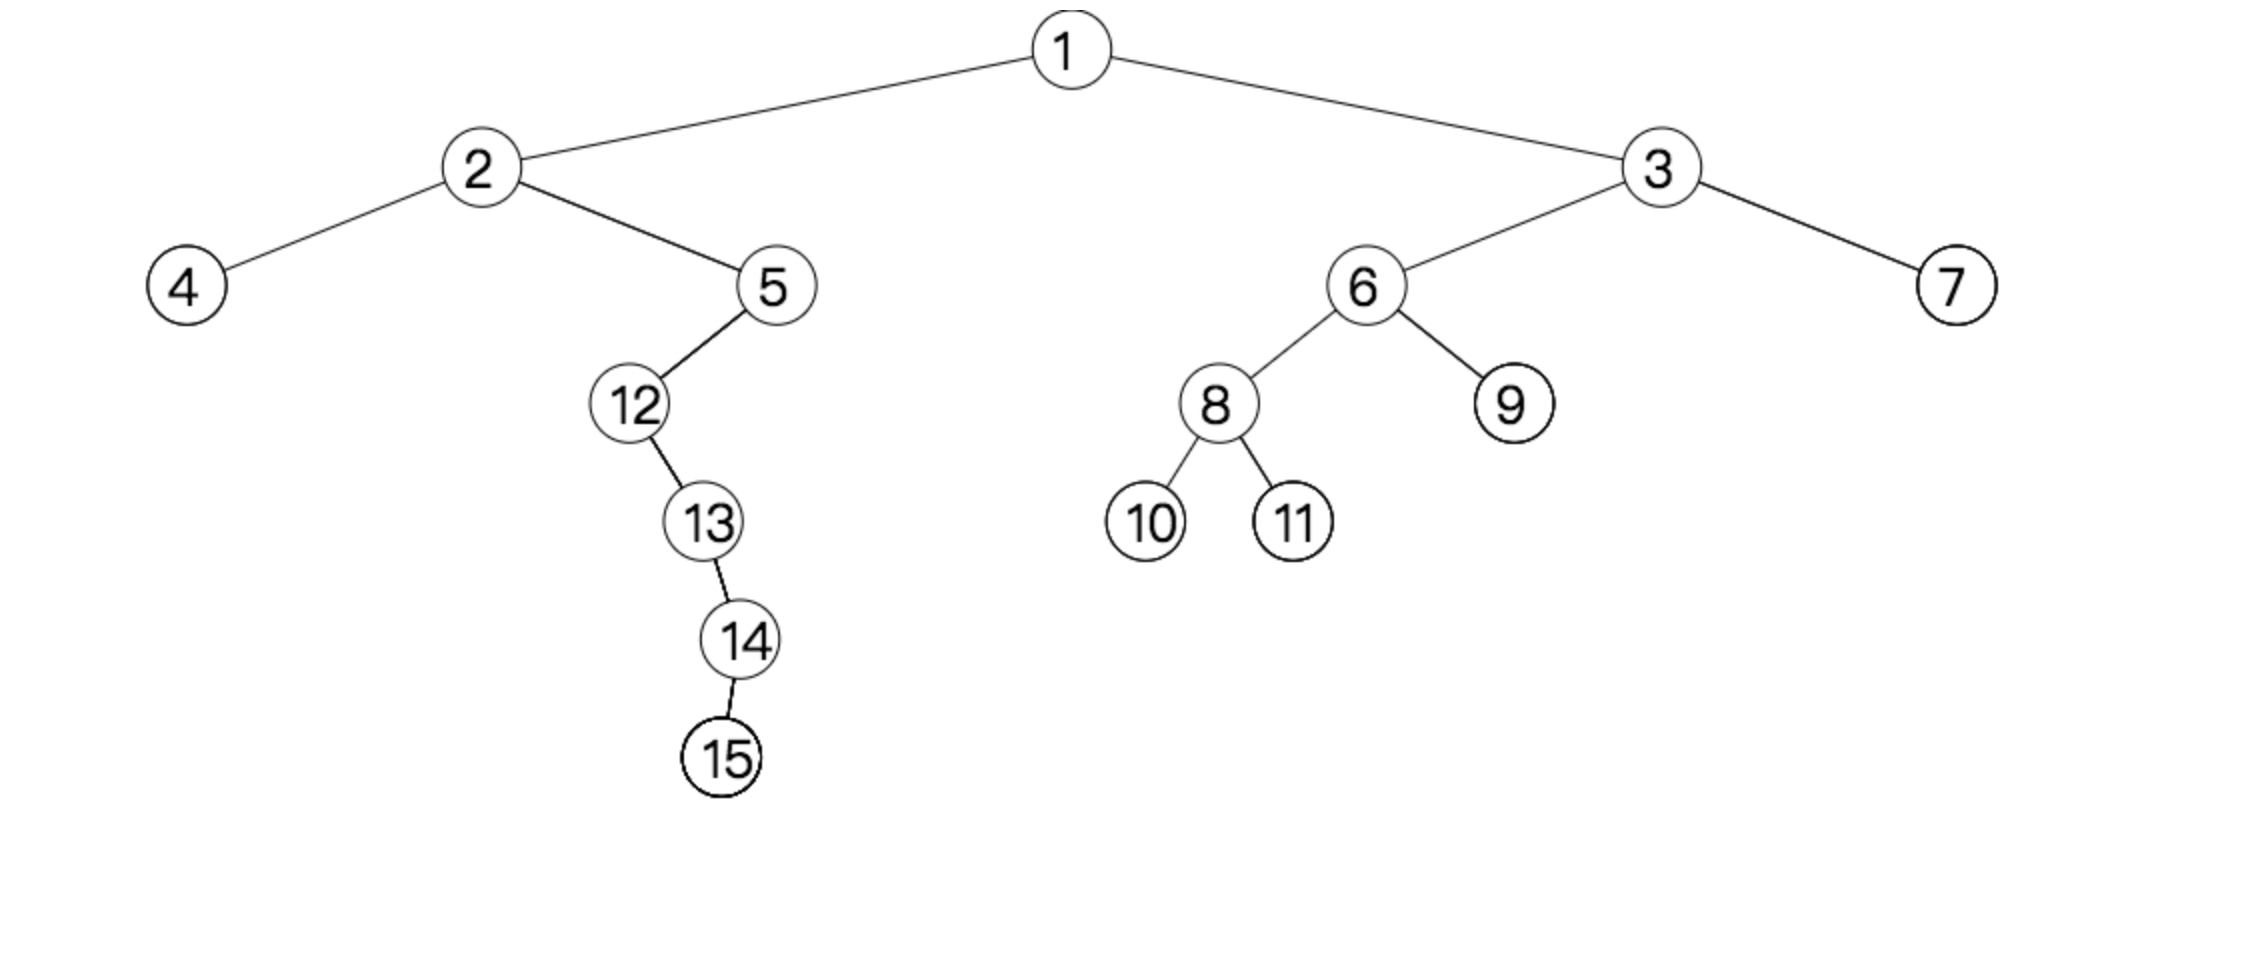
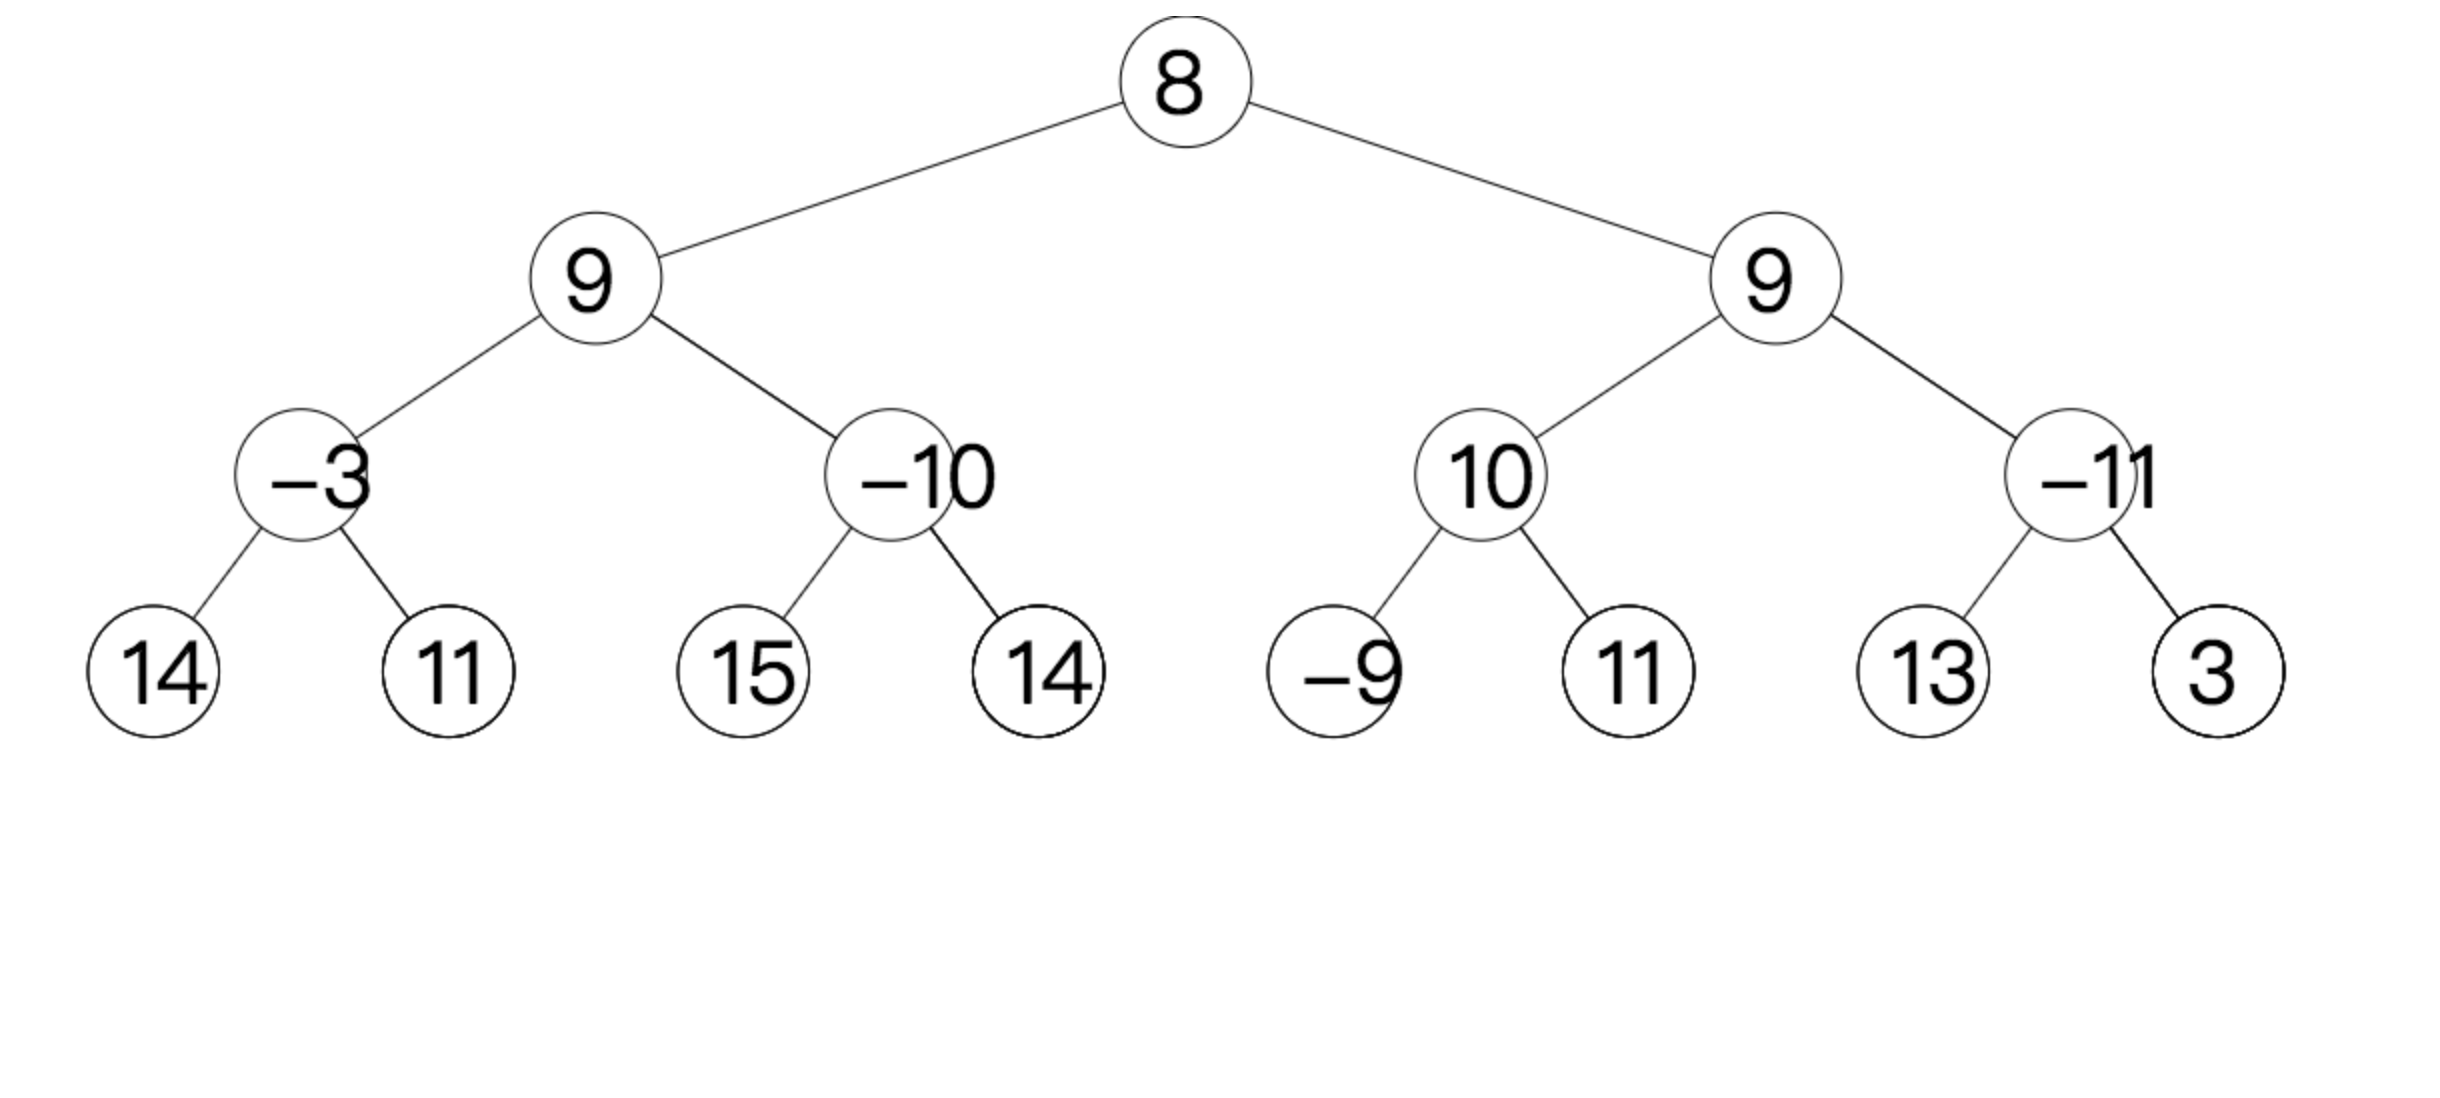
demo修改

diff --git a/README.md b/README.md
@@ -6,7 +6,7 @@ For example, if you give the following input (the first number is used to determ
 给定一个前序遍历的数组，空节点使用#来表示，可以可视化显示二叉树。
 > 30
 
-> 1 2 4 # # 5 12 # 13 # 14 15 # # # # 3 6 8 10 # # 11 # # 9 # # 7 # #
+> 8 9 -3 14 # # 11 # # -10 15 # # 14 # # 9 10 -9 # # 11 # # -11 13 # # 3 # #
 
  result:
 输出：
